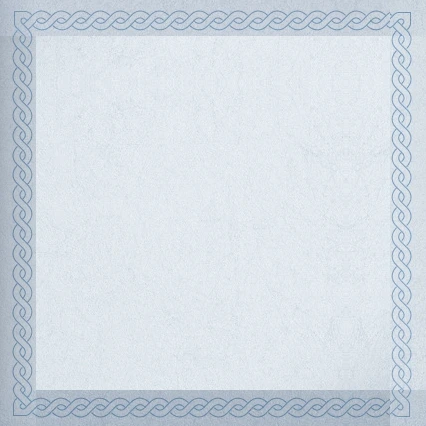
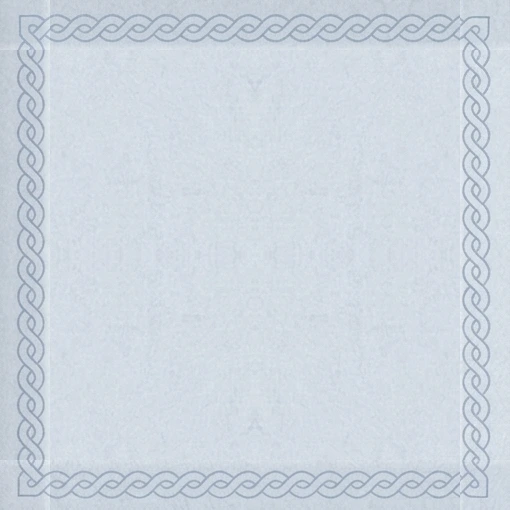
style: 材料背包换用新背景图，简化背景实现
- bg-frame.webp 改由去除阴影的新背景图生成（边框 + 中间无缝纹理）
- 背景只用一个 border-image fill 平铺，去掉渐变和顶部光影层
- 删除不再使用的 img/other/bg.png

Claude-Session: https://claude.ai/code/session_01S1t51myc34K2b2TswwKo7j

Changed region(s): [[0.0, 0.0, 0.9765, 1.0], [0.4883, 0.1526, 0.5188, 0.1831]]

diff --git a/resources/html/materialPack/materialPack.css b/resources/html/materialPack/materialPack.css
@@ -60,10 +60,9 @@ body {
   background-size: contain
 }
 
-/* 背景：边框平铺（不拉伸），中间用从原图取色的渐变，顶部保留原图光影并渐隐
- * bg-frame.webp 由 bg.png 的四角 + 中段光照均匀的整数个花纹周期拼成，平铺无接缝
- * --frame 为边框宽度，取 容器宽度 × 36 / 577（原图宽 577，边框切片 36），
- * 这样边框与顶部原图缩放比例一致，接缝处对齐 */
+/* 背景：bg-frame.webp 由背景原图的四角、整数个花纹周期的边框和无缝纹理拼成，
+ * 用 border-image 平铺（不拉伸），图片多长都不会变形
+ * --frame 为边框宽度，按 容器宽度 × 50 / 800（原图宽 800，边框切片 50） */
 .data_box_repeat {
   --frame: 53px;
   width: 100%;
@@ -71,30 +70,10 @@ body {
   position: absolute;
   top: 0;
   left: 0;
-  border-radius: 5px;
   border: var(--frame) solid transparent;
-  border-image: url('../../img/other/bg-frame.webp') 36 round;
-  background: linear-gradient(to right, #c2cad3 0%, #c6ced8 1%, #d3dbe2 5%, #dde4eb 13%, #e0e6ed 32%, #dfe6ed 50%, #dde4eb 68%, #d9e0e8 82%, #d6dee5 92%, #ccd7e2 100%) padding-box;
+  border-image: url('../../img/other/bg-frame.webp') 50 fill round;
   font-family: tttgbnumber;
   z-index: 0
-}
-
-/* 不能给 .data_box_repeat 加 overflow: hidden，Chrome 下会和 border-image 冲突，边框上出现亮色色块；
- * 这里通过背景定位裁掉原图自带的边框 */
-.data_box_repeat::before {
-  content: "";
-  position: absolute;
-  top: 0;
-  left: 0;
-  right: 0;
-  aspect-ratio: 577 / 960;
-  background-image: url('../../img/other/bg.png');
-  background-size: calc(100% + 2 * var(--frame)) auto;
-  background-position: calc(-1 * var(--frame)) calc(-1 * var(--frame));
-  background-repeat: no-repeat;
-  -webkit-mask-image: linear-gradient(to bottom, #000 50%, transparent 90%);
-  mask-image: linear-gradient(to bottom, #000 50%, transparent 90%);
-  z-index: -1
 }
 
 .type_box {

diff --git a/resources/html/materialPack/materialWeeklyPack.css b/resources/html/materialPack/materialWeeklyPack.css
@@ -7,7 +7,7 @@ body {
   width: 520px !important;
 }
 
-/* 容器宽 520，边框宽度按 520 × 36 / 577 */
+/* 容器宽 520，边框宽度按 520 × 50 / 800 */
 .data_box_repeat {
   --frame: 32px;
 }
